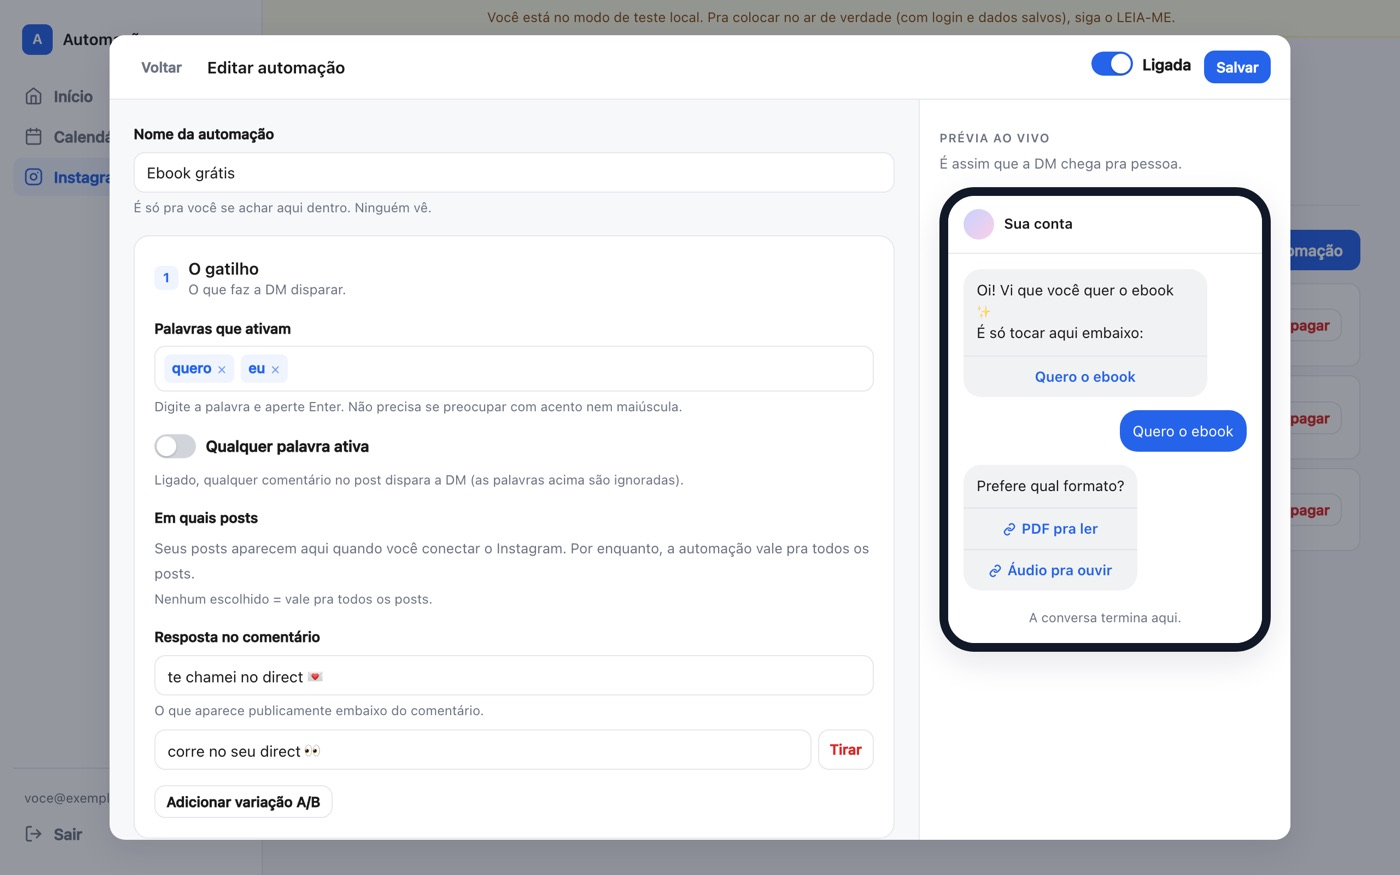
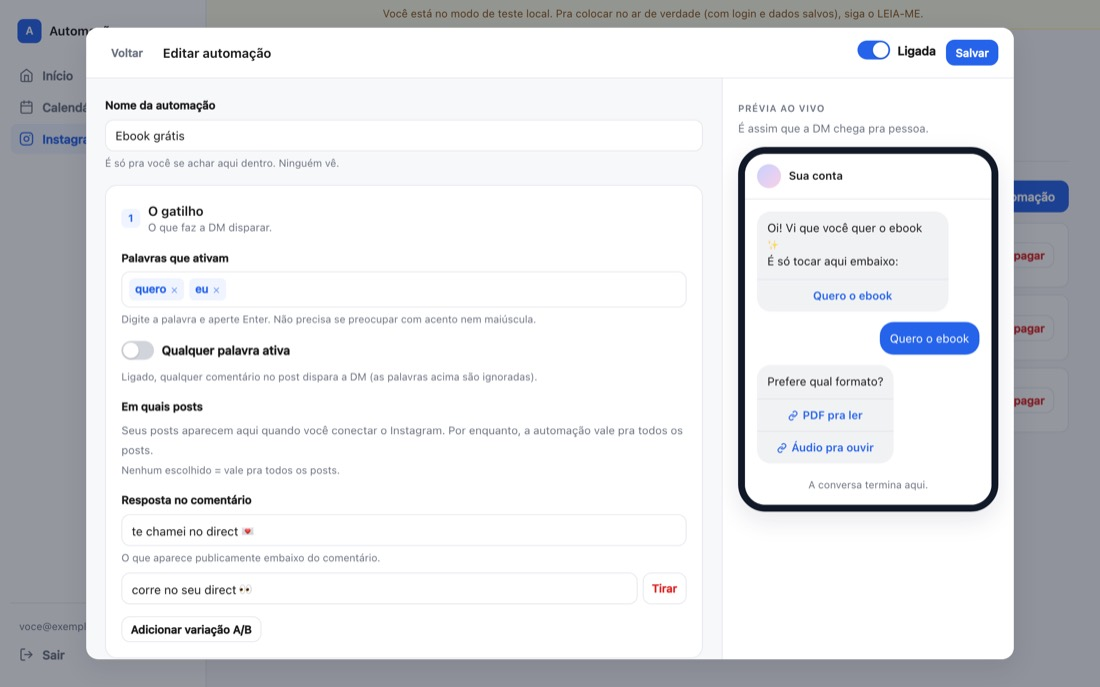
Contraste do texto de apoio no minimo acessivel e imagens mais leves

diff --git a/index.html b/index.html
@@ -48,7 +48,7 @@
   --escuro:#2C3328;      /* verde quase preto, dos títulos e botões */
   --salvia:#8A9E7B;      /* o verde da arte */
   --salvia-fundo:#E7EBE0;
-  --cinza:#6E7268;
+  --cinza:#63675D;
   --borda:#E0E0D6;
   --serif:'Playfair Display',Georgia,serif;
 }